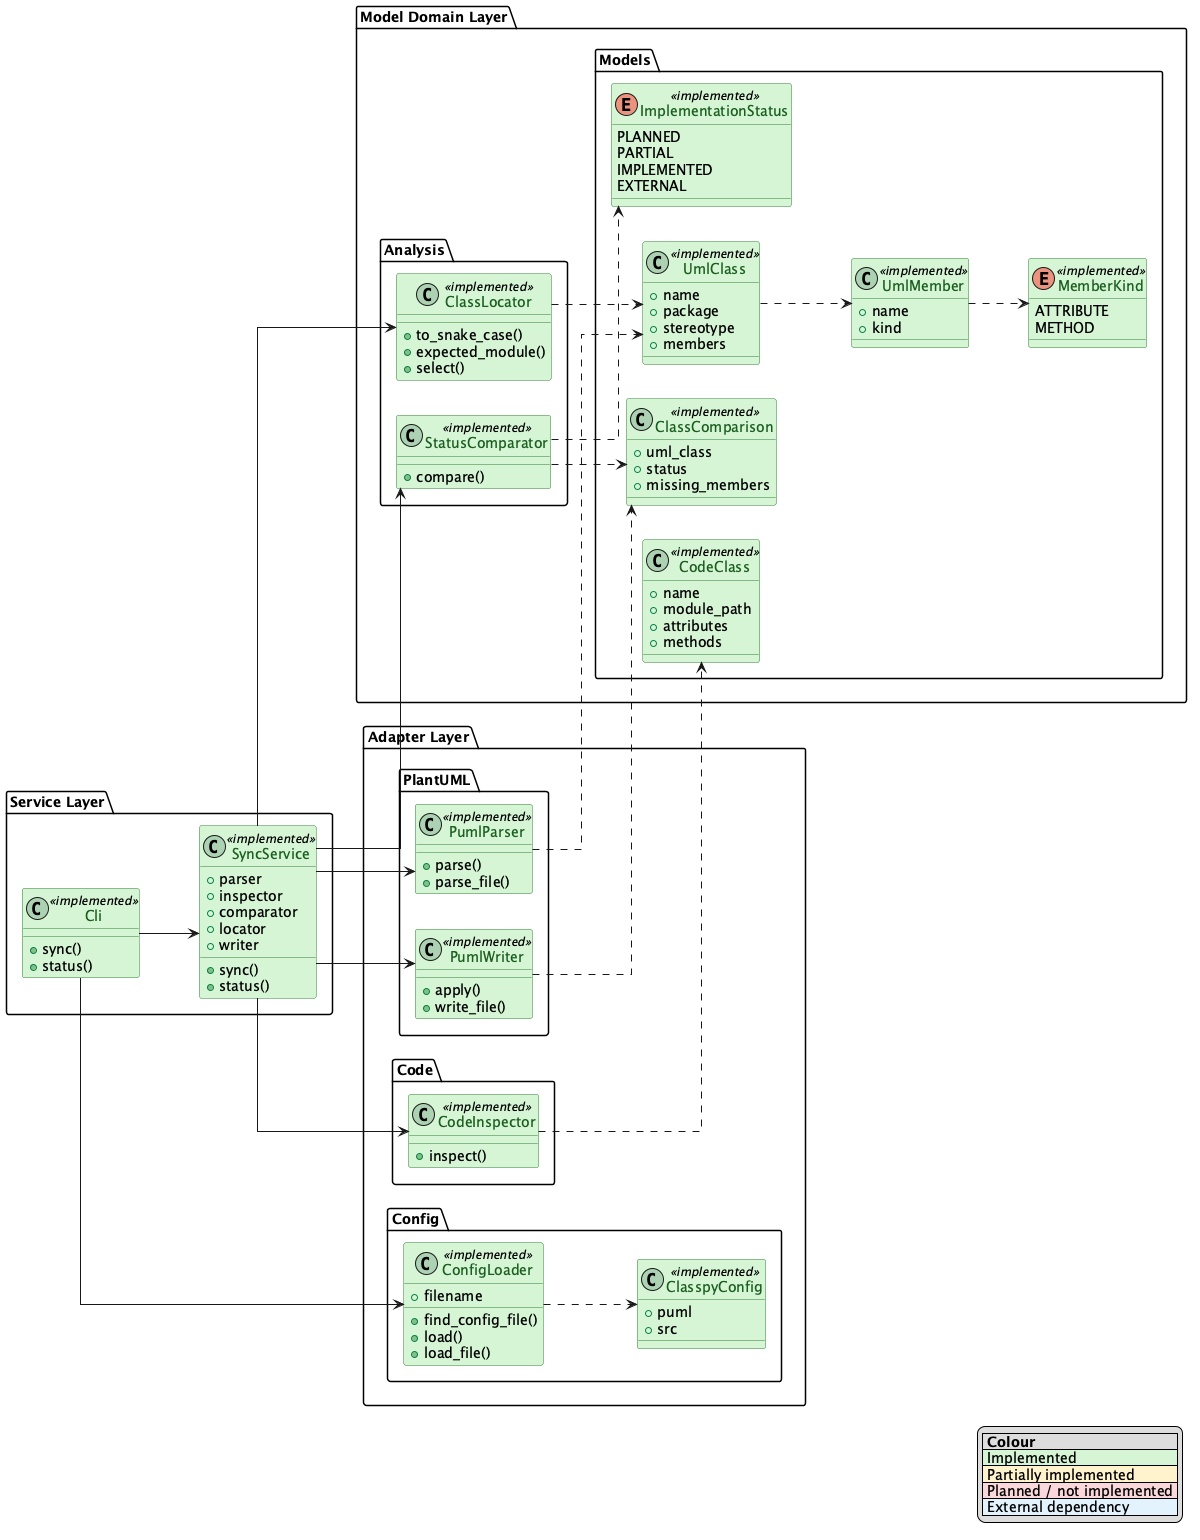
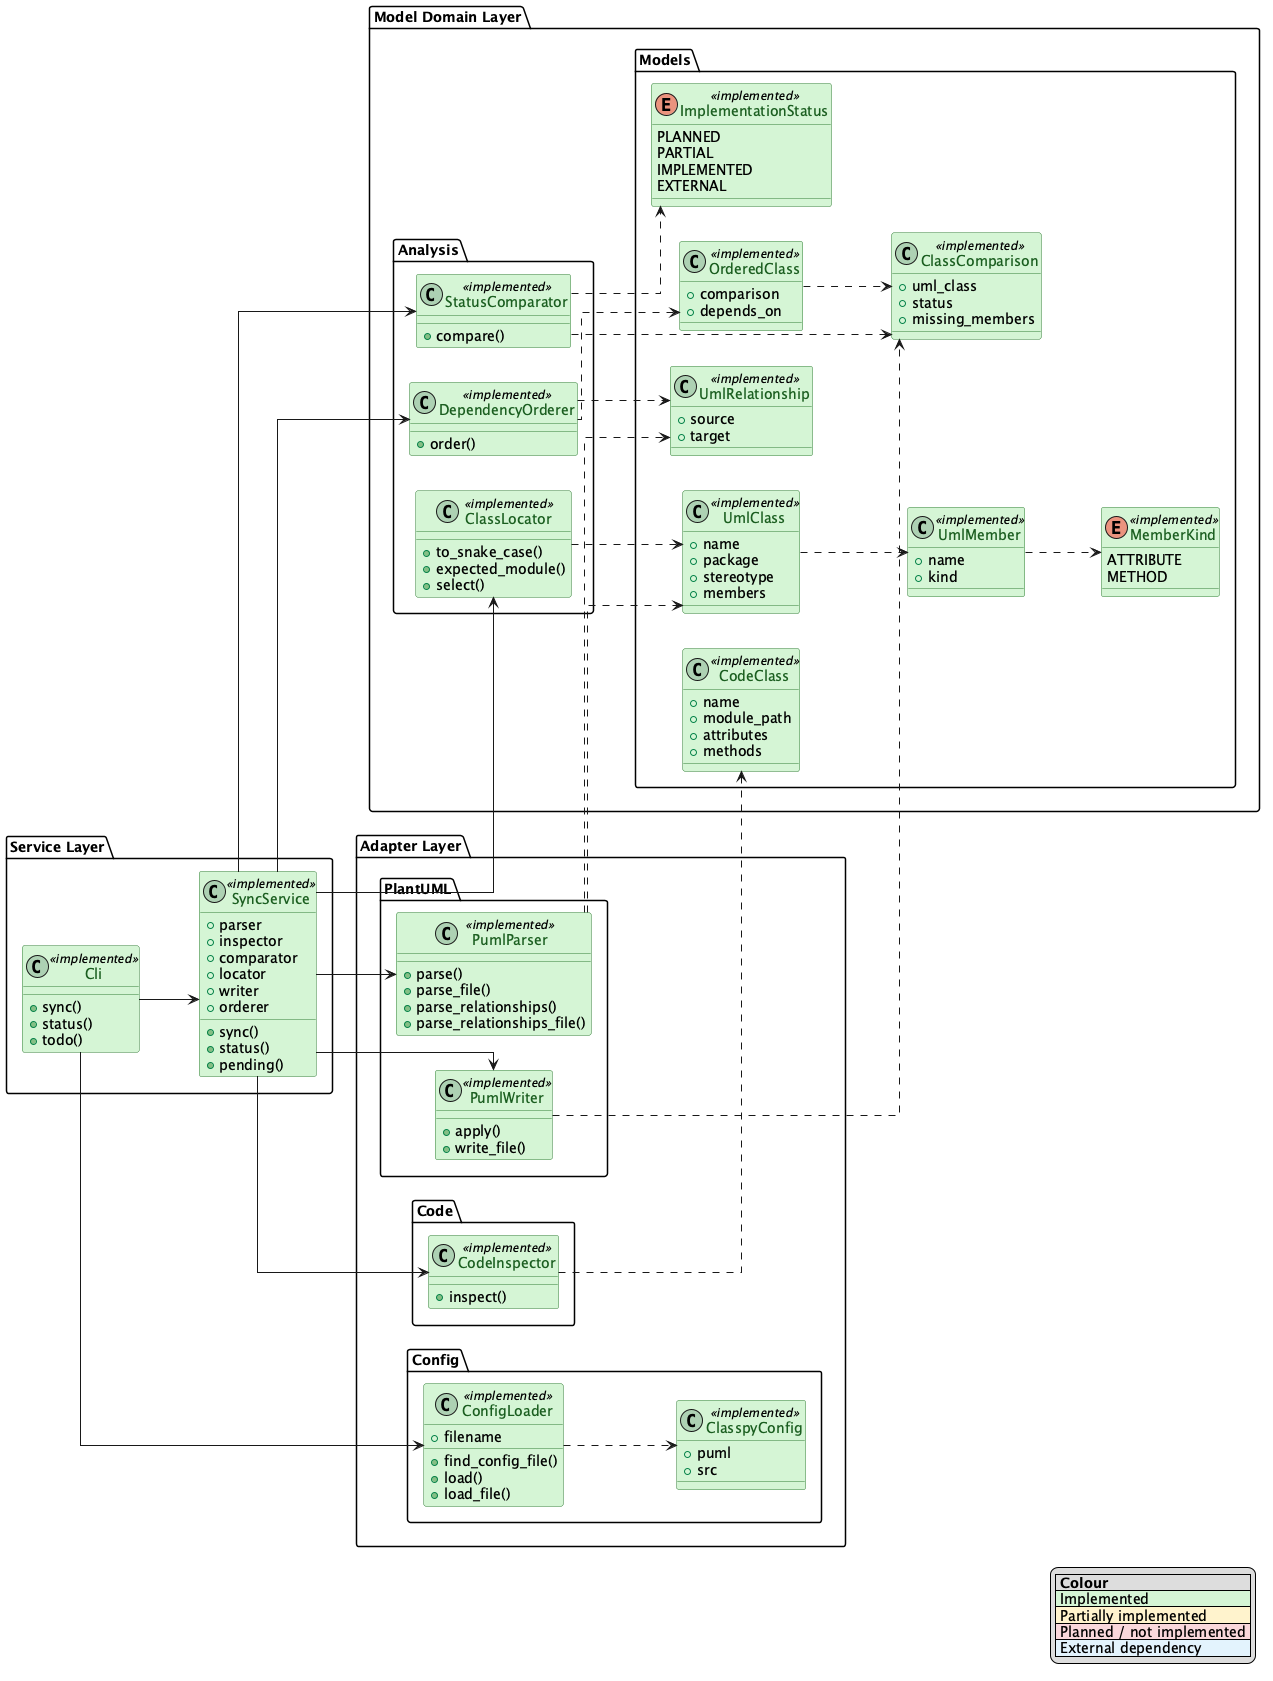
docs: document \todo, dogfood it in class.puml, add command checklist

diff --git a/README.md b/README.md
@@ -155,7 +155,33 @@ Regenerate the image afterward with PlantUML if you want a PNG:
 plantuml -tpng docs/class.puml
 ```
 
-### 4. Enforce it in CI
+### 4. Plan what to build next
+
+`classpy todo` lists the classes that aren't implemented yet, sorted **least-
+dependent first** — a ready-to-follow build order where every class appears
+after the (still-unbuilt) classes it depends on:
+
+```bash
+classpy todo --puml docs/class.puml --src src
+```
+
+```
+Build order (least-dependent first):
+
+ 1. [plan] Parser
+ 2. [plan] Writer
+ 3. [plan] Service  (needs Parser, Writer)
+ 4. [plan] Cli  (needs Service)
+
+4 class(es) to implement.
+```
+
+By default only `planned` (not-yet-started) classes are listed. Add `--partial`
+to also include partially-implemented classes. Dependencies on classes that are
+*already implemented* are treated as done — they never hold a class back or show
+up in the `needs …` hint.
+
+### 5. Enforce it in CI
 
 `--check` computes status, writes nothing, and exits non-zero if the diagram is
 stale — so a pull request fails when someone forgets to resync:
@@ -168,11 +194,13 @@ classpy sync --check --puml docs/class.puml --src src
 
 ## Command reference
 
-| Command              | What it does                                                        |
-| -------------------- | ------------------------------------------------------------------- |
-| `classpy status`     | Report each class's status. Never writes.                           |
-| `classpy sync`       | Repaint the `.puml` stereotypes to match the code.                  |
-| `classpy sync --check` | Report + exit non-zero if stale (writes nothing). For CI.         |
+| Command                 | What it does                                                        |
+| ----------------------- | ------------------------------------------------------------------- |
+| `classpy status`        | Report each class's status. Never writes.                           |
+| `classpy sync`          | Repaint the `.puml` stereotypes to match the code.                  |
+| `classpy sync --check`  | Report + exit non-zero if stale (writes nothing). For CI.           |
+| `classpy todo`          | List unimplemented classes in build order (least-dependent first).  |
+| `classpy todo --partial`| Same, but also include partially-implemented classes.               |
 
 Shared options: `--puml PATH`, `--src PATH`. Resolution order for each is
 **CLI flag → `[tool.classpy]` in `pyproject.toml` → built-in default**